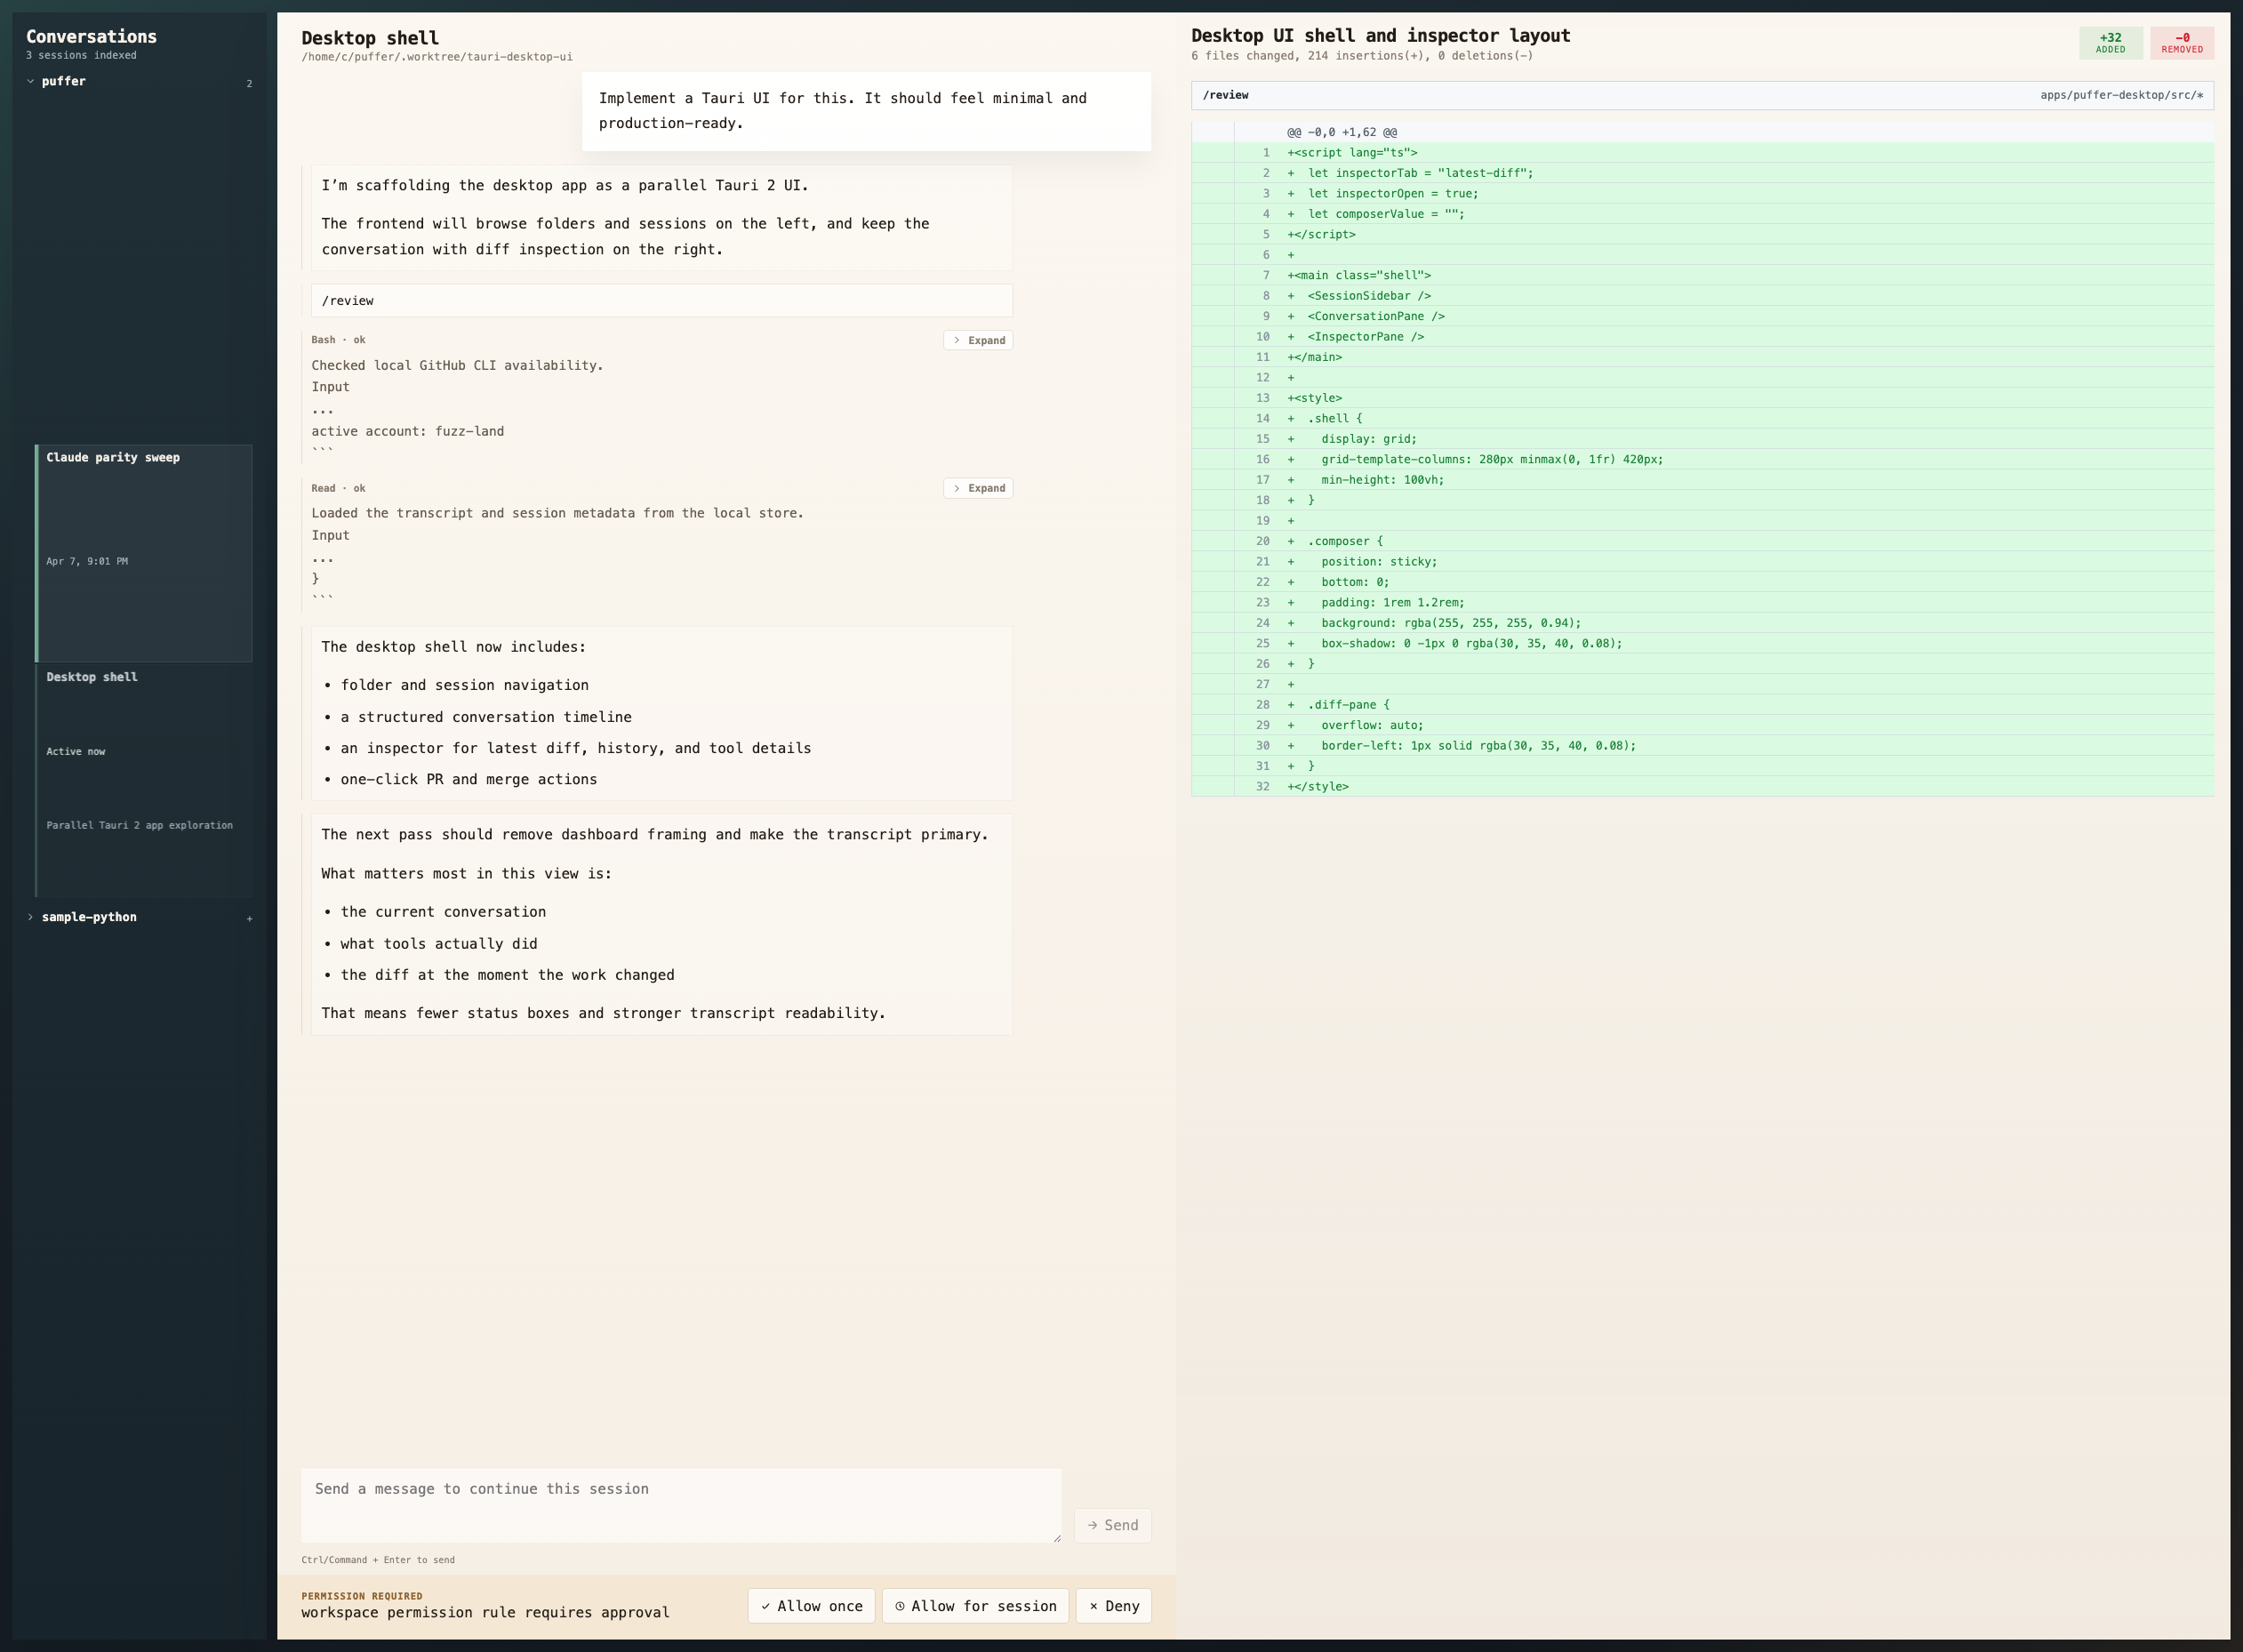
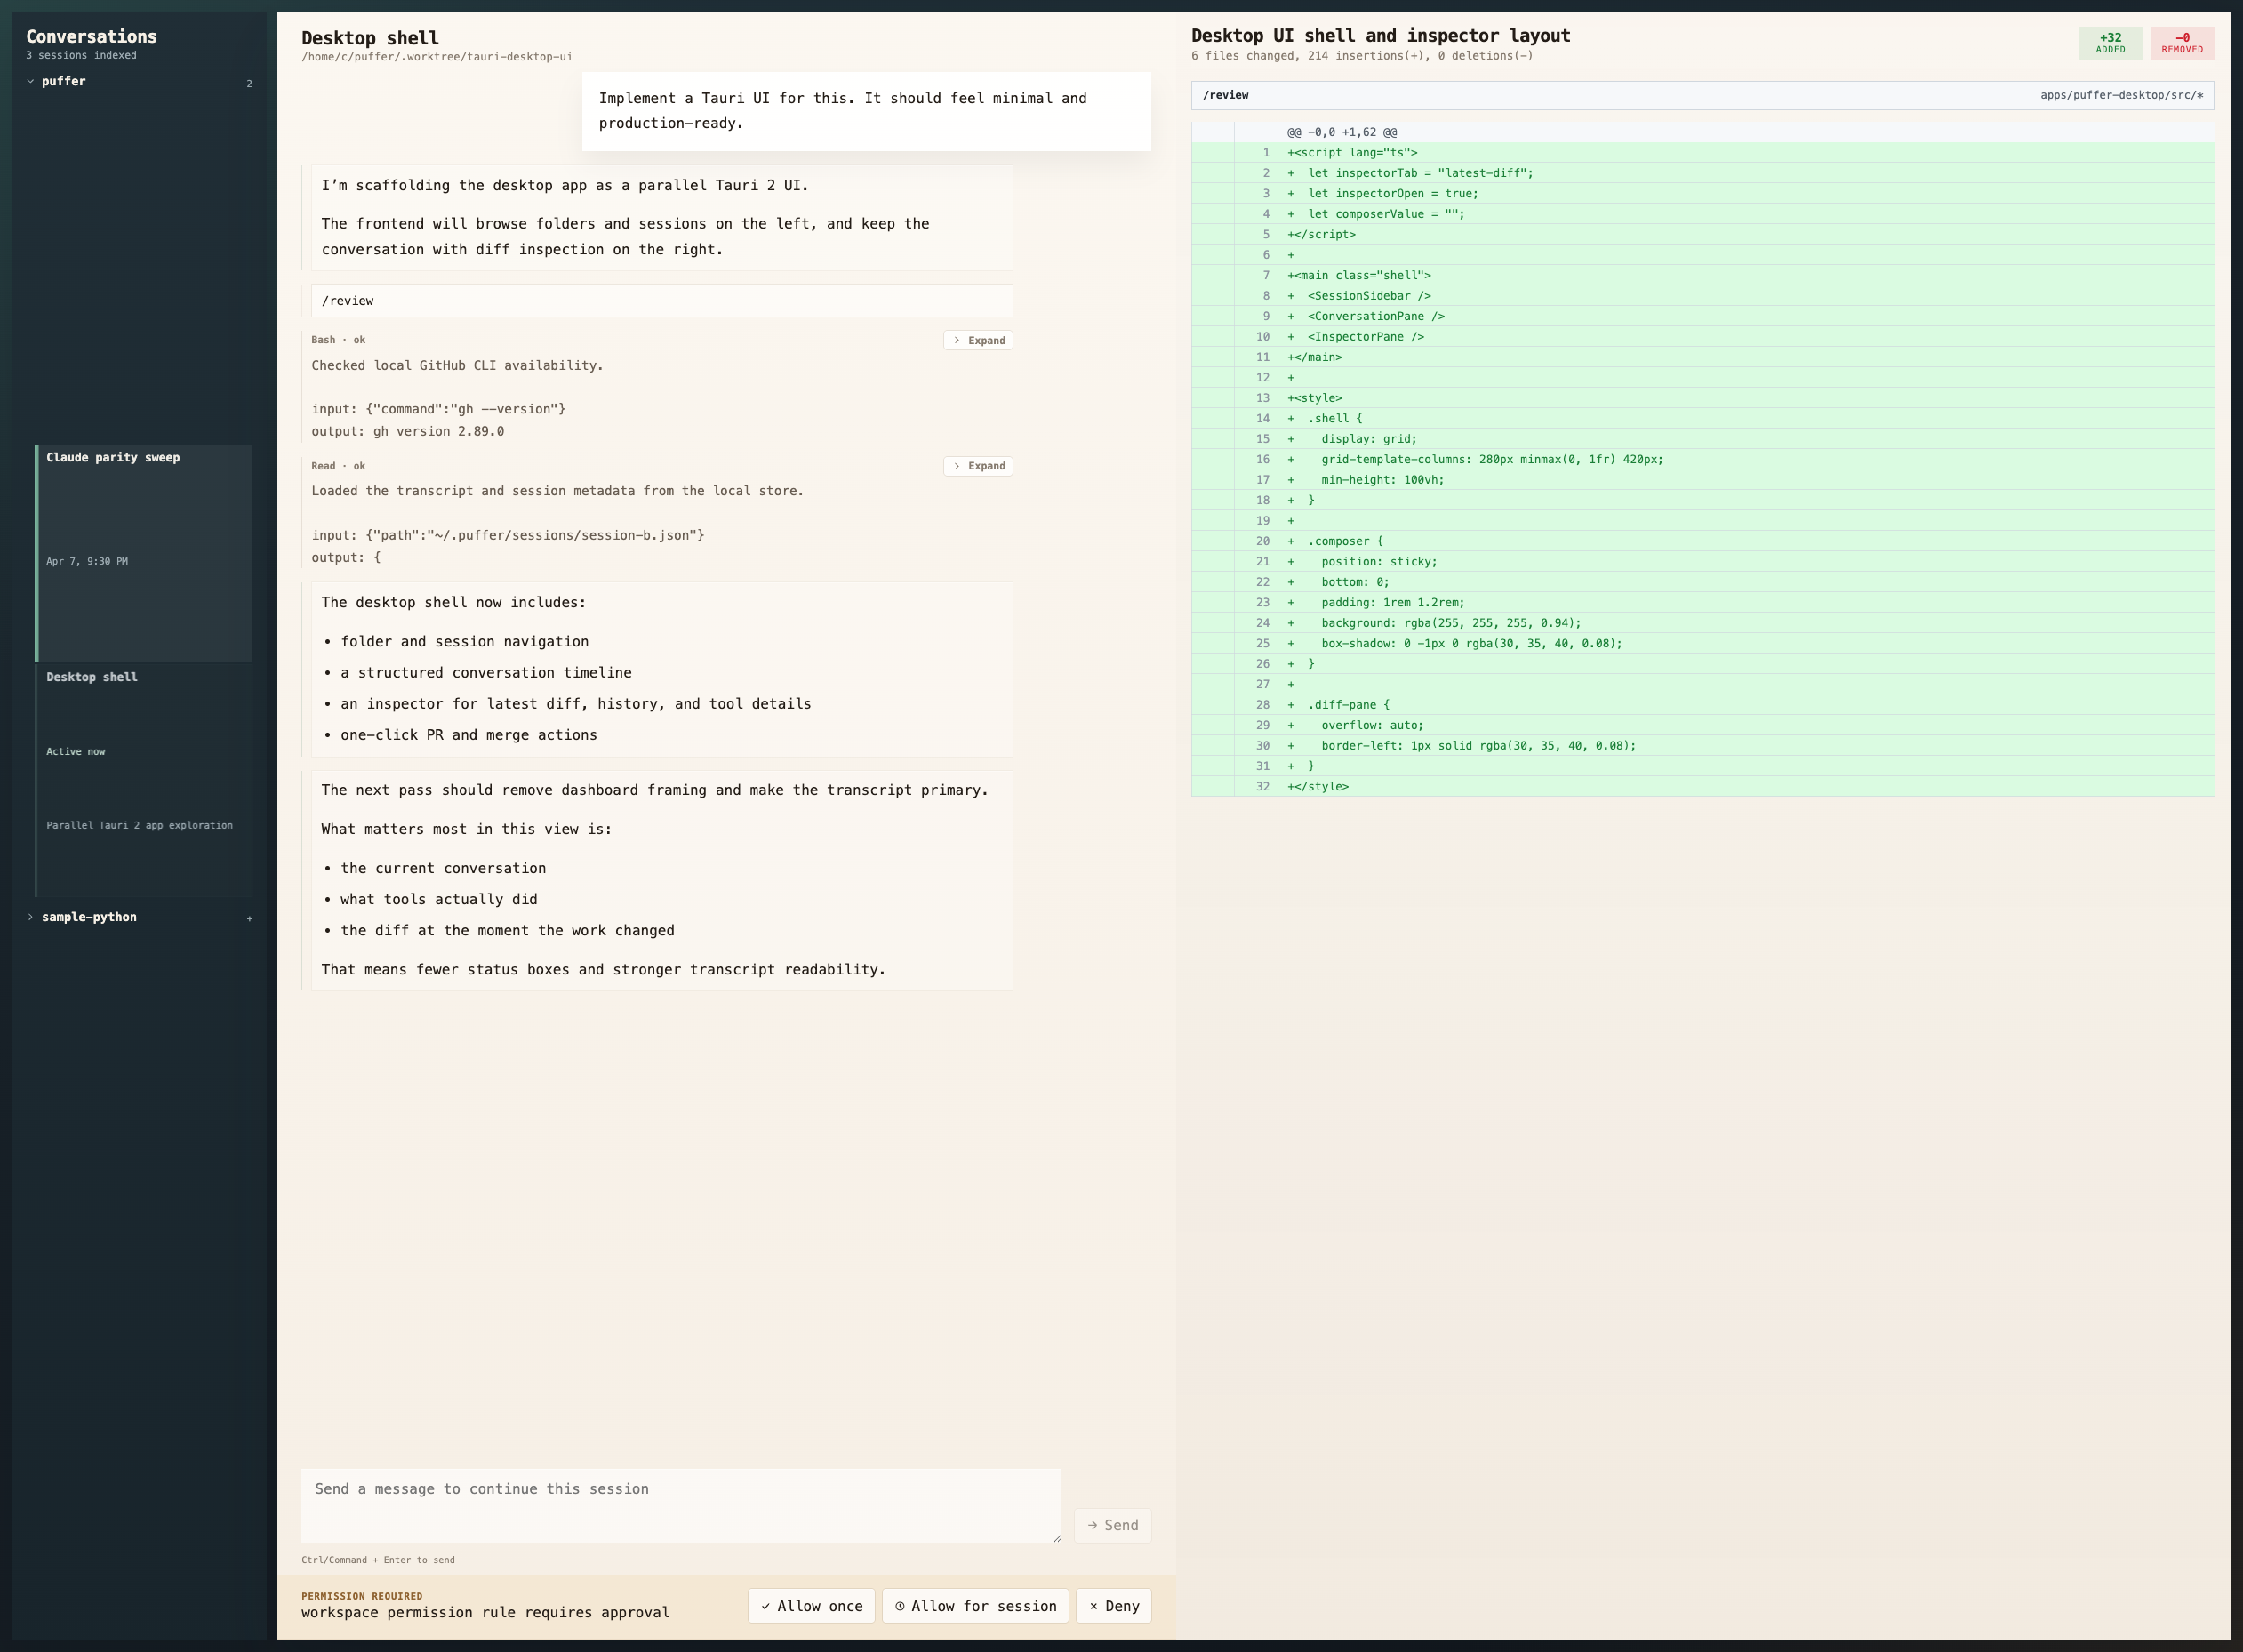
Improve collapsed desktop transcript previews

Changed region(s): [[0.1546, 0.3746, 0.3092, 0.5931], [0.1237, 0.2809, 0.3092, 0.3434]]

diff --git a/apps/puffer-desktop/src/lib/components/ConversationPane.svelte b/apps/puffer-desktop/src/lib/components/ConversationPane.svelte
@@ -159,6 +159,25 @@
     return text.split("\n").slice(0, maxLines).join("\n");
   }
 
+  function toolPreview(item: ToolTimelineItem): string {
+    const outputLines = item.output.split("\n").filter(Boolean);
+    return [
+      item.summary,
+      "",
+      `input: ${item.input}`,
+      outputLines.length > 0 ? `output: ${outputLines[0]}` : "output: <empty>"
+    ].join("\n");
+  }
+
+  function diffCardPreview(item: DiffTimelineItem): string {
+    const stats = diffStats(item.diff.patch);
+    return [
+      item.diff.title,
+      `${item.diff.command}  +${stats.additions}  -${stats.removals}`,
+      diffPreview(item.diff.patch, 2)
+    ].join("\n");
+  }
+
   $: transcriptItems = timeline.filter((item) => item.kind !== "permission");
   $: {
     const next = new Set(collapsedIds);
@@ -231,7 +250,7 @@
             </div>
 
             {#if isCollapsed(item)}
-              <pre class="collapsed-preview">{previewText(item)}</pre>
+              <pre class="collapsed-preview">{toolPreview(item)}</pre>
             {:else}
               <div class="tool-log">
                 <p class="tool-summary">{item.summary}</p>
@@ -257,19 +276,38 @@
           {:else if isDiffItem(item)}
             <div class="entry-meta">
               <span>Diff snapshot</span>
+              {#if shouldCollapse(item)}
+                <button class="collapse-toggle" on:click={() => toggleCollapsed(item)}>
+                  <svg viewBox="0 0 16 16" aria-hidden="true">
+                    <path
+                      d={isCollapsed(item) ? "M6 4l4 4-4 4" : "M4 6l4 4 4-4"}
+                      fill="none"
+                      stroke="currentColor"
+                      stroke-linecap="round"
+                      stroke-linejoin="round"
+                      stroke-width="1.4"
+                    />
+                  </svg>
+                  <span>{isCollapsed(item) ? "Expand" : "Collapse"}</span>
+                </button>
+              {/if}
             </div>
 
-            <div class="diff-log">
-              <p class="diff-title">{item.diff.title}</p>
-              <p class="diff-status">{item.diff.status}</p>
-              <div class="diff-stats">
-                <span>+{diffStats(item.diff.patch).additions}</span>
-                <span>-{diffStats(item.diff.patch).removals}</span>
-                <span>{item.diff.command}</span>
+            {#if isCollapsed(item)}
+              <pre class="collapsed-preview">{diffCardPreview(item)}</pre>
+            {:else}
+              <div class="diff-log">
+                <p class="diff-title">{item.diff.title}</p>
+                <p class="diff-status">{item.diff.status}</p>
+                <div class="diff-stats">
+                  <span>+{diffStats(item.diff.patch).additions}</span>
+                  <span>-{diffStats(item.diff.patch).removals}</span>
+                  <span>{item.diff.command}</span>
+                </div>
+                <p class="diff-note">Full patch stays in the right review rail.</p>
+                <pre>{diffPreview(item.diff.patch)}</pre>
               </div>
-              <p class="diff-note">Full patch stays in the right review rail.</p>
-              <pre>{diffPreview(item.diff.patch)}</pre>
-            </div>
+            {/if}
           {:else}
             {#if item.kind === "system" || shouldCollapse(item)}
               <div class="entry-meta">